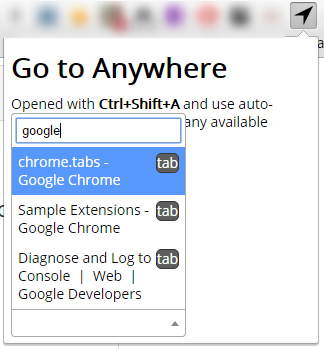
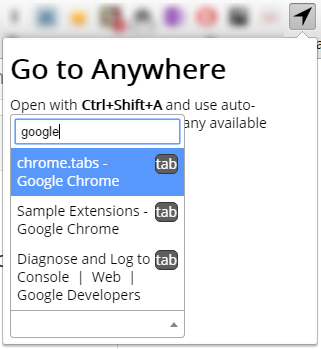
Fixed typo

diff --git a/src/popup.html b/src/popup.html
@@ -9,7 +9,7 @@
 </head>
 <body>
 <h1>Go to Anywhere</h1>
-<p>Opened with <b>Ctrl+Shift+A</b> and use auto-complete list below to fire any available action.</p>
+<p>Open with <b>Ctrl+Shift+A</b> and use auto-complete list below to fire any available action.</p>
 
 <p>Test connectivity with tabs:</p>
 <table>
